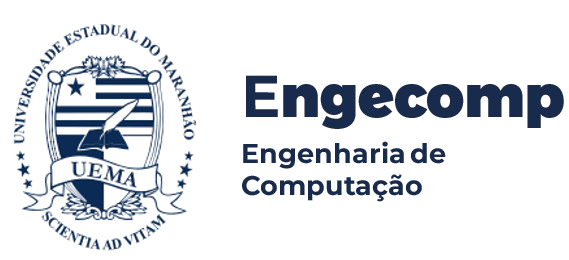
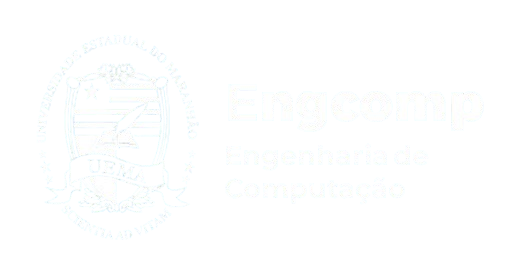
Seção - Departamento
noticias incompleto
modificações no footer e na navbar

Changed region(s): [[0.0, 0.0923, 0.3678, 0.9846], [0.4291, 0.2769, 1.0, 0.4923], [0.3985, 0.5538, 0.7969, 0.7692]]

diff --git a/pesquisa/laboratorios.html b/pesquisa/laboratorios.html
@@ -33,7 +33,7 @@
       <!-- Card para o Laboratório 1 -->
       <div class="col">
         <div class="card h-100 shadow-sm">
-          <img src="assets/Uema.jpg" class="card-img-top" alt="Laboratório 1">
+          <img src="../assets//teste.jpg" class="card-img-top" alt="Laboratório 1">
           <div class="card-body">
             <h5 class="card-title">LEA</h5>
             <p class="card-text">Descubra o que este laboratório oferece aos alunos.</p>
@@ -44,7 +44,7 @@
       <!-- Card para o Laboratório 2 -->
       <div class="col">
         <div class="card h-100 shadow-sm">
-          <img src="assets/Uema.jpg" class="card-img-top" alt="Laboratório 2">
+          <img src="../assets//teste.jpg" class="card-img-top" alt="Laboratório 2">
           <div class="card-body">
             <h5 class="card-title">LAPS</h5>
             <p class="card-text">Conheça os recursos disponíveis neste laboratório.</p>
@@ -55,7 +55,7 @@
       <!-- Card para o Laboratório 3 -->
       <div class="col">
         <div class="card h-100 shadow-sm">
-          <img src="assets/Uema.jpg" class="card-img-top" alt="Laboratório 3">
+          <img src="../assets//teste.jpg" class="card-img-top" alt="Laboratório 3">
           <div class="card-body">
             <h5 class="card-title">LINCPROG</h5>
             <p class="card-text">Saiba mais sobre as oportunidades de pesquisa.</p>
@@ -66,7 +66,7 @@
       <!-- Card para o Laboratório 4 -->
       <div class="col">
         <div class="card h-100 shadow-sm">
-          <img src="assets/Uema.jpg" class="card-img-top" alt="Laboratório 4">
+          <img src="../assets//teste.jpg" class="card-img-top" alt="Laboratório 4">
           <div class="card-body">
             <h5 class="card-title">LCB</h5>
             <p class="card-text">Explorando novas tecnologias e inovações.</p>
@@ -77,7 +77,7 @@
       <!-- Card para o Laboratório 1 -->
       <div class="col">
         <div class="card h-100 shadow-sm">
-          <img src="assets/Uema.jpg" class="card-img-top" alt="Laboratório 1">
+          <img src="../assets//teste.jpg" class="card-img-top" alt="Laboratório 1">
           <div class="card-body">
             <h5 class="card-title">LTC</h5>
             <p class="card-text">Descubra o que este laboratório oferece aos alunos.</p>
@@ -88,7 +88,7 @@
       <!-- Card para o Laboratório 1 -->
       <div class="col">
         <div class="card h-100 shadow-sm">
-          <img src="assets/Uema.jpg" class="card-img-top" alt="Laboratório 1">
+          <img src="../assets//teste.jpg" class="card-img-top" alt="Laboratório 1">
           <div class="card-body">
             <h5 class="card-title">LAC</h5>
             <p class="card-text">Descubra o que este laboratório oferece aos alunos.</p>
@@ -99,7 +99,7 @@
       <!-- Card para o Laboratório 1 -->
       <div class="col">
         <div class="card h-100 shadow-sm">
-          <img src="assets/Uema.jpg" class="card-img-top" alt="Laboratório 1">
+          <img src="../assets//teste.jpg" class="card-img-top" alt="Laboratório 1">
           <div class="card-body">
             <h5 class="card-title">Laboratório 1</h5>
             <p class="card-text">Descubra o que este laboratório oferece aos alunos.</p>
@@ -110,7 +110,7 @@
       <!-- Card para o Laboratório 1 -->
       <div class="col">
         <div class="card h-100 shadow-sm">
-          <img src="assets/Uema.jpg" class="card-img-top" alt="Laboratório 1">
+          <img src="../assets//teste.jpg" class="card-img-top" alt="Laboratório 1">
           <div class="card-body">
             <h5 class="card-title">Laboratório 1</h5>
             <p class="card-text">Descubra o que este laboratório oferece aos alunos.</p>

diff --git a/departamentos/noticias.html b/departamentos/noticias.html
@@ -6,8 +6,45 @@
   
   <!-- Bootstrap 5 CSS via CDN -->
   <link rel="stylesheet" href="https://cdn.jsdelivr.net/npm/bootstrap@5.3.0/dist/css/bootstrap.min.css">
-  <!-- CSS Personalizado -->
   <link rel="stylesheet" href="/css/style.css">
+  <style>
+    .news-container {
+      display: flex;
+      flex-wrap: wrap;
+      gap: 30px;
+      justify-content: center;
+    }
+    .news-card {
+      background: white;
+      border-radius: 10px;
+      box-shadow: 0 4px 6px rgba(0, 0, 0, 0.1);
+      overflow: hidden;
+      width: 400px;
+      transition: transform 0.3s;
+    }
+    .news-card:hover {
+      transform: translateY(-5px);
+    }
+    .news-card img {
+      width: 100%;
+      height: 220px;
+      object-fit: cover;
+    }
+    .news-card-body {
+      padding: 20px;
+    }
+    .news-card h5 {
+      font-size: 20px;
+      font-weight: bold;
+    }
+    .news-card p {
+      font-size: 16px;
+      color: #555;
+    }
+    h1 {
+      text-align: center;
+    }
+  </style>
 </head>
 <body>
   <!-- Top Bar -->
@@ -21,16 +58,59 @@
       <a href="#">Outros Links</a>
     </div>
   </div>
-
   
   <script src="../js/navbar-component.js" defer></script>
   <navbar-component base-url="../"></navbar-component>
 
   <!-- Conteúdo Principal -->
   <main class="container my-5">
-    <h1 class="mb-4">Notícias</h1>
-    <p>Aqui você encontrará as últimas atualizações e reportagens sobre as atividades acadêmicas e institucionais da UEMA. Mantenha-se informado sobre eventos, novos projetos e outras novidades do curso.</p>
-    <!-- Você pode incluir uma lista, cards ou links para artigos aqui -->
+    <h1 class="mb-4 text-center">Notícias</h1>
+    
+    <!-- Carrossel de Notícias -->
+    <div id="newsCarousel" class="carousel slide mb-5" data-bs-ride="carousel">
+      <div class="carousel-inner">
+        <div class="carousel-item active">
+          <img src="../assets//teste.jpg" class="d-block w-100" alt="Notícia 1">
+        </div>
+        <div class="carousel-item">
+          <img src="../assets//teste.jpg" class="d-block w-100" alt="Notícia 2">
+        </div>
+        <div class="carousel-item">
+          <img src="../assets//teste.jpg" class="d-block w-100" alt="Notícia 3">
+        </div>
+      </div>
+      <a class="carousel-control-prev" href="#newsCarousel" role="button" data-bs-slide="prev">
+        <span class="carousel-control-prev-icon" aria-hidden="true"></span>
+      </a>
+      <a class="carousel-control-next" href="#newsCarousel" role="button" data-bs-slide="next">
+        <span class="carousel-control-next-icon" aria-hidden="true"></span>
+      </a>
+    </div>
+
+    <!-- Lista de Notícias -->
+    <div class="news-container">
+      <div class="news-card">
+        <img src="https://via.placeholder.com/400x220" alt="Notícia 1">
+        <div class="news-card-body">
+          <h5>Título da Notícia 1</h5>
+          <p>Descrição breve da notícia para chamar a atenção do leitor.</p>
+        </div>
+      </div>
+      <div class="news-card">
+        <img src="https://via.placeholder.com/400x220" alt="Notícia 2">
+        <div class="news-card-body">
+          <h5>Título da Notícia 2</h5>
+          <p>Descrição breve da notícia para chamar a atenção do leitor.</p>
+        </div>
+      </div>
+      <div class="news-card">
+        <img src="https://via.placeholder.com/400x220" alt="Notícia 3">
+        <div class="news-card-body">
+          <h5>Título da Notícia 3</h5>
+          <p>Descrição breve da notícia para chamar a atenção do leitor.</p>
+        </div>
+      </div>
+    </div>
   </main>
 
   <script src="../js/footer-component.js" defer></script>

diff --git a/departamentos/projetos.html b/departamentos/projetos.html
@@ -2,7 +2,7 @@
 <html lang="pt-BR">
 <head>
   <meta charset="UTF-8" />
-  <title>EngComp UEMA - Projetos</title>
+  <title>EngComp UEMA - Notícias</title>
   
   <!-- Bootstrap 5 CSS via CDN -->
   <link rel="stylesheet" href="https://cdn.jsdelivr.net/npm/bootstrap@5.3.0/dist/css/bootstrap.min.css">
@@ -12,7 +12,9 @@
 <body>
   <!-- Top Bar -->
   <div class="top-bar d-flex justify-content-between align-items-center">
-    <div class="ms-2"><strong>Universidade Estadual do Maranhão (UEMA)</strong></div>
+    <div class="ms-2">
+      <strong>Universidade Estadual do Maranhão (UEMA)</strong>
+    </div>
     <div class="me-2">
       <a href="#">Acesso</a>
       <a href="#">Contato</a>
@@ -20,20 +22,20 @@
     </div>
   </div>
 
-  <script src="../js/footer-component.js" defer></script>
-  <footer-component base-url="../"></footer-component>
+  
+  <script src="../js/navbar-component.js" defer></script>
+  <navbar-component base-url="../"></navbar-component>
+
   <!-- Conteúdo Principal -->
   <main class="container my-5">
-    <h1 class="mb-4">Projetos</h1>
-    <p>
-      Nesta seção, são apresentados os principais projetos desenvolvidos pelos departamentos, 
-      destacando iniciativas interdisciplinares e ações de extensão universitária que impactam a comunidade.
-    </p>
-    <!-- Adicione mais detalhes, imagens ou links para descrições completas dos projetos -->
+    <h1 class="mb-4">Notícias</h1>
+    <p>Aqui você encontrará as últimas atualizações e reportagens sobre as atividades acadêmicas e institucionais da UEMA. Mantenha-se informado sobre eventos, novos projetos e outras novidades do curso.</p>
+    <!-- Você pode incluir uma lista, cards ou links para artigos aqui -->
   </main>
 
-  <  <script src="../js/navbar-component.js" defer></script>
-  <navbar-component base-url="../"></navbar-component>
+  <script src="../js/footer-component.js" defer></script>
+  <footer-component base-url="../"></footer-component>
+
   <!-- Scripts -->
   <script src="https://cdn.jsdelivr.net/npm/jquery@3.6.0/dist/jquery.min.js"></script>
   <script src="https://cdn.jsdelivr.net/npm/bootstrap@5.3.0/dist/js/bootstrap.bundle.min.js"></script>

diff --git a/js/footer-component.js b/js/footer-component.js
@@ -10,7 +10,7 @@ class FooterComponent extends HTMLElement {
           <div class="row">
             <!-- Logo UEMA no rodapé -->
             <div class="col-md-3 mb-3">
-              <img src="${base}assets/engcomp1.png" alt="Logo UEMA" class="logo-rodape" />
+              <img src="${base}assets/engcomp.png" alt="Logo UEMA" style="max-height: 120px" class="logo-rodape" />
             </div>
             <!-- Links rápidos -->
             <div class="col-md-3 mb-3 rodape-links">
@@ -19,7 +19,7 @@ class FooterComponent extends HTMLElement {
                 <li><a href="${base}portal-do-aluno.html">Portal do Aluno</a></li>
                 <li><a href="${base}biblioteca.html">Biblioteca</a></li>
                 <li><a href="${base}calendario-academico.html">Calendário Acadêmico</a></li>
-                <li><a href="${base}sistema-interno.html">Sistema Interno</a></li>
+                <li><a href="https://sis.sig.uema.br/sigaa/verTelaLogin.do">Sistema Interno</a></li>
               </ul>
             </div>
             <!-- Informações de contato -->
@@ -32,7 +32,7 @@ class FooterComponent extends HTMLElement {
           </div>
           <div class="rodape-copy">
             <p>© 2025 UEMA - Todos os direitos reservados.</p>
-            <p>Desenvolvido por <a href="https://www.linkedin.com/in/1lgl/">Luis Guilherme</a> e <a href="https://www.linkedin.com/in/pmelo22/">Patrick Melo</a></p>
+            <p>Desenvolvido por <a href="https://www.linkedin.com/in/1lgl/">Luis Guilherme</a> e <a href="https://www.linkedin.com/in/pmelo22/">Patrick Albuquerque</a></p>
           </div>
         </div>
       </footer>

diff --git a/departamentos/publicacoes.html b/departamentos/publicacoes.html
@@ -2,7 +2,7 @@
 <html lang="pt-BR">
 <head>
   <meta charset="UTF-8" />
-  <title>EngComp UEMA - Publicações</title>
+  <title>EngComp UEMA - Notícias</title>
   
   <!-- Bootstrap 5 CSS via CDN -->
   <link rel="stylesheet" href="https://cdn.jsdelivr.net/npm/bootstrap@5.3.0/dist/css/bootstrap.min.css">
@@ -12,7 +12,9 @@
 <body>
   <!-- Top Bar -->
   <div class="top-bar d-flex justify-content-between align-items-center">
-    <div class="ms-2"><strong>Universidade Estadual do Maranhão (UEMA)</strong></div>
+    <div class="ms-2">
+      <strong>Universidade Estadual do Maranhão (UEMA)</strong>
+    </div>
     <div class="me-2">
       <a href="#">Acesso</a>
       <a href="#">Contato</a>
@@ -20,17 +22,15 @@
     </div>
   </div>
 
+  
   <script src="../js/navbar-component.js" defer></script>
   <navbar-component base-url="../"></navbar-component>
 
-
   <!-- Conteúdo Principal -->
   <main class="container my-5">
-    <h1 class="mb-4">Publicações</h1>
-    <p>
-      Nesta área, são reunidos os artigos, pesquisas, papers e demais materiais publicados por docentes e alunos, demonstrando a produção científica e acadêmica da UEMA.
-    </p>
-    <!-- Você pode adicionar uma lista, tabela ou links para documentos -->
+    <h1 class="mb-4">Notícias</h1>
+    <p>Aqui você encontrará as últimas atualizações e reportagens sobre as atividades acadêmicas e institucionais da UEMA. Mantenha-se informado sobre eventos, novos projetos e outras novidades do curso.</p>
+    <!-- Você pode incluir uma lista, cards ou links para artigos aqui -->
   </main>
 
   <script src="../js/footer-component.js" defer></script>

diff --git a/js/navbar-component.js b/js/navbar-component.js
@@ -8,8 +8,7 @@ class NavbarComponent extends HTMLElement {
       <nav class="navbar navbar-expand-lg">
         <div class="container">
           <a class="navbar-brand d-flex align-items-center" href="${base}index.html">
-            <img src="${base}assets/engecomp.png" alt="Logo UEMA" style="max-height: 40px" class="me-2" />
-            <span class="text-white fw-bold d-none d-md-inline">Portal UEMA</span>
+            <img src="${base}assets/engcomp.png" alt="Logo UEMA" style="max-height: 100px" class="me-2" />
           </a>
           <button class="navbar-toggler" type="button" data-bs-toggle="collapse" data-bs-target="#navbarMenu" aria-controls="navbarMenu" aria-expanded="false" aria-label="Toggle navigation">
             <span class="navbar-toggler-icon" style="filter: invert(1) brightness(2)"></span>

diff --git a/css/style.css b/css/style.css
@@ -79,27 +79,6 @@
   }
   
   /* ===============================
-     4. LOGOS
-     =============================== */
-  .logo-navbar {
-    max-height: 40px;
-    height: auto;
-  }
-  
-  .logo-hero {
-    max-width: 250px;
-    height: auto;
-    display: block;
-    margin: 0 auto;
-  }
-  
-  .logo-rodape {
-    max-width: 180px;
-    height: auto;
-    display: block;
-  }
-  
-  /* ===============================
      5. SEÇÃO HERO
      =============================== */
   .hero {

diff --git a/index.html b/index.html
@@ -43,7 +43,7 @@
       <div class="row justify-content-center align-items-center">
         <!-- Imagem à esquerda (centralizada) -->
         <div class="col-md-3 text-center">
-          <img src="assets/engcomp.png" alt="Logo UEMA" class="logo-hero img-fluid">
+          <img src="assets/engecomp.png" alt="Logo UEMA" class="logo-hero img-fluid">
         </div>
 
         <!-- Texto à direita (centralizado) -->
